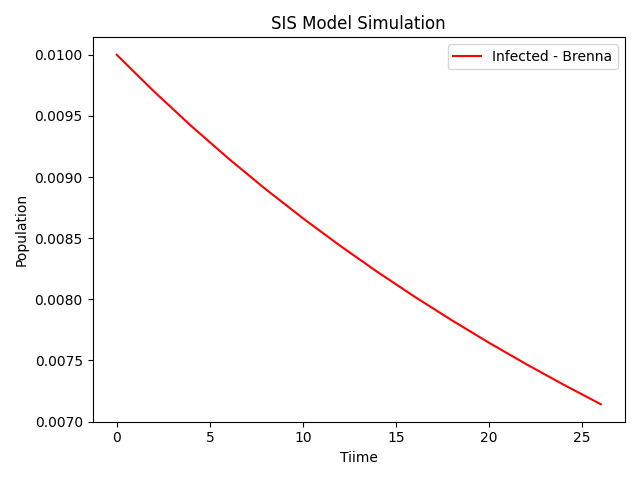
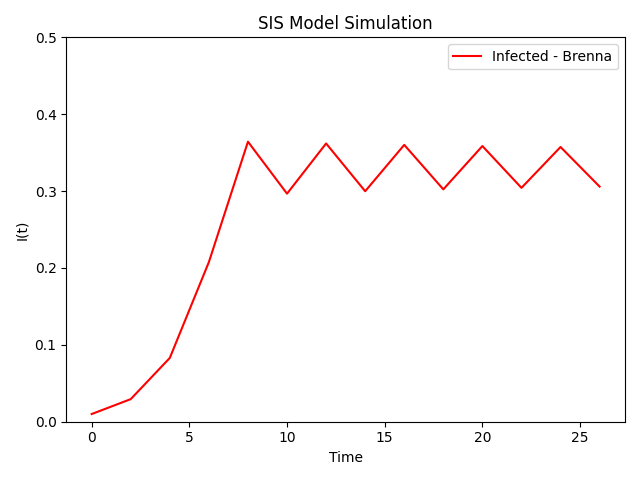
Sis model fixed

diff --git a/hw2/sis.py b/hw2/sis.py
@@ -26,9 +26,11 @@ def forward_euler_solver(beta, gamma, s_0, i_0, delta_t, t_final):
     infected = [i]
     time = [t]
     
+    ind = 1
+    
     while t < t_final:
         ## logistic ODE
-        i_t = (beta - gamma)*i*(1-(i/(1-(1/R_0))))
+        i_t = (beta - gamma)*infected[ind-1]*(1-(infected[ind-1]/(1-(1/R_0))))
         ## closed form soln
         # if np.isclose(i, 1):  # Check if i is close to 1 to avoid division by zero
         #     i_t = 1
@@ -37,17 +39,20 @@ def forward_euler_solver(beta, gamma, s_0, i_0, delta_t, t_final):
         #     fraction_term = ((1 - (1 / R_0)) / (1 + (1 - (1 / R_0) - i_0) / (R_0 * i_0)))
         #     i_t = 1 - fraction_term * i_0 * exponential_term
 
-        s_t = 1 - i_t
         # appends to lists
-        infected.append(i_t)
-        suceptibles.append(s_t)
+        i_next = (i_t * delta_t) + infected[ind-1]
+        infected.append(i_next)
         
         # updates time
         t += delta_t
         time.append(t)
         
         # updates current SIS values to the new step
-        s, i = s_t, i_t
+        i =  i_t
+        
+        ind += 1
+        
+
     print(infected)
     # returns a list of lists
     return [suceptibles, infected, time]

diff --git a/hw2/plot_sis.py b/hw2/plot_sis.py
@@ -63,8 +63,9 @@ def main():
     # plotting code block
     fig, ax = plt.subplots()
     ax.plot(time, I, color = 'red', label = 'Infected - Brenna')
-    ax.set_xlabel('Tiime')
-    ax.set_ylabel('Population')
+    ax.set_xlabel('Time')
+    ax.set_ylabel('I(t)')
+    ax.set_ylim(0, 0.5)
     ax.set_title('SIS Model Simulation')
     ax.legend()
     plt.tight_layout()
